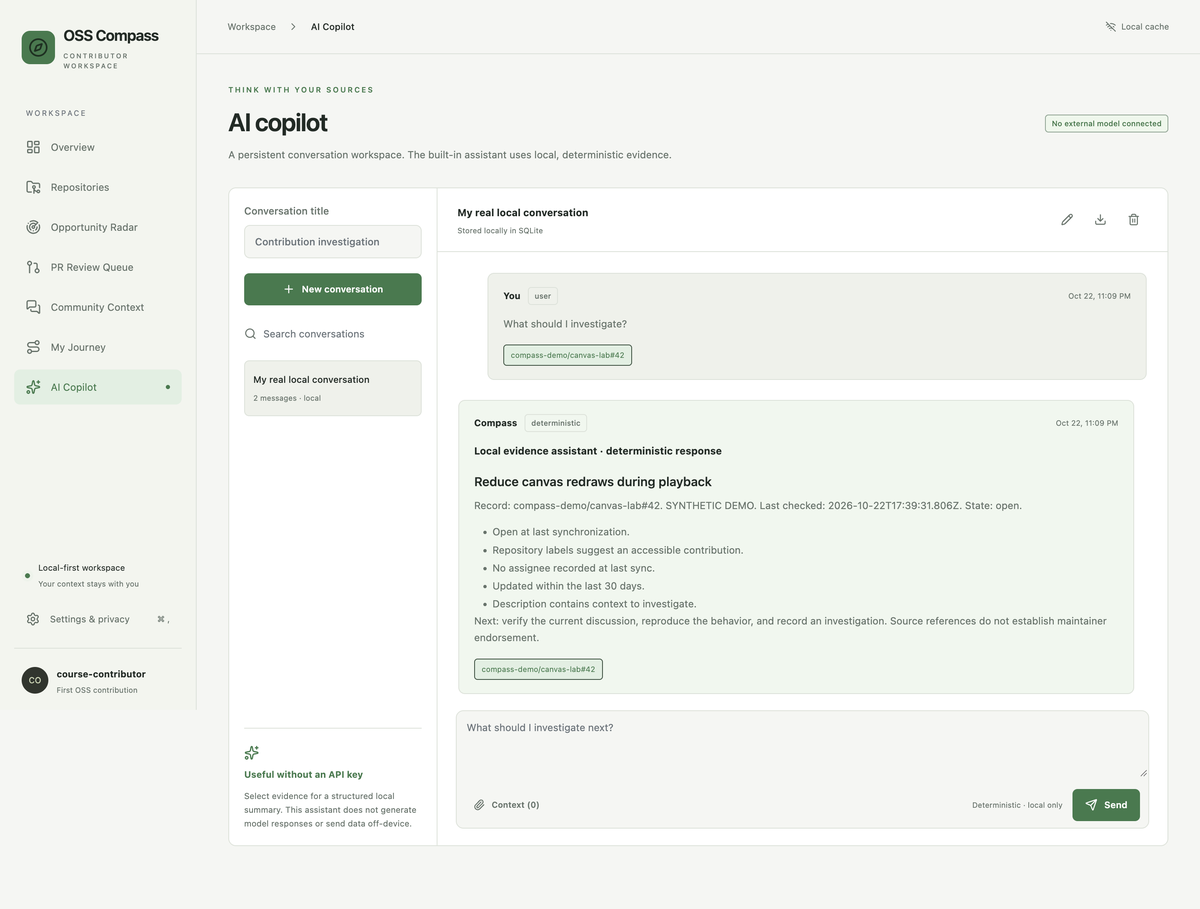
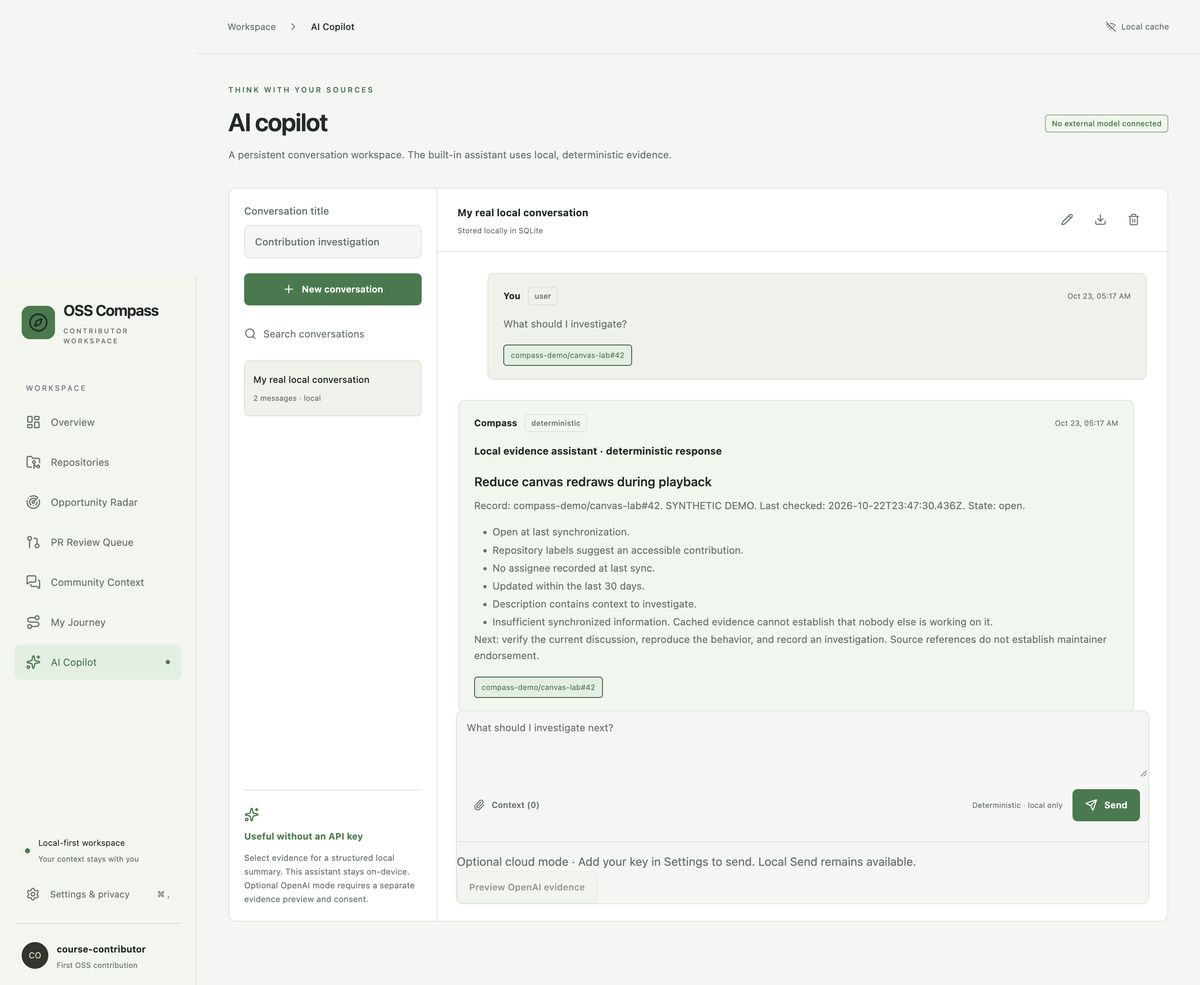
build: verify and package 0.2 audit release with course evidence

diff --git a/tests/e2e/workspace.spec.ts b/tests/e2e/workspace.spec.ts
@@ -22,6 +22,22 @@ test("complete offline contribution workflow survives a desktop restart", async 
     await page.getByRole("button", { name: "Explore demo workspace" }).click();
     await expect(page.getByText("DEMO DATA VISIBLE")).toBeVisible();
     await page
+      .getByRole("button", { name: "Repositories", exact: true })
+      .click();
+    await page
+      .getByRole("button", { name: "Organization briefing", exact: true })
+      .click();
+    await expect(
+      page.getByRole("heading", { name: "Organization briefing", exact: true }),
+    ).toBeVisible();
+    await expect(
+      page.getByText("Missing policy is not permission", { exact: false }),
+    ).toBeVisible();
+    await page.screenshot({
+      path: "docs/screenshots/organization-briefing.png",
+      fullPage: true,
+    });
+    await page
       .getByRole("button", { name: "Opportunity Radar", exact: true })
       .click();
     await expect(
@@ -40,6 +56,7 @@ test("complete offline contribution workflow survives a desktop restart", async 
       .click();
     const details = page.getByRole("dialog", { name: "Item details" });
     await expect(details).toBeVisible();
+    await details.screenshot({ path: "docs/screenshots/before-you-start.png" });
     await expect(
       page.getByText("BEFORE YOU START", { exact: true }),
     ).toBeVisible();
@@ -72,6 +89,9 @@ test("complete offline contribution workflow survives a desktop restart", async 
     await expect(
       page.getByText("Inspection history (1)", { exact: true }),
     ).toBeVisible();
+    await page
+      .getByRole("dialog")
+      .screenshot({ path: "docs/screenshots/review-memory.png" });
     await page.getByRole("button", { name: "Close details" }).click();
     await page
       .getByRole("button", { name: "Community Context", exact: true })

diff --git a/src/main/service.ts b/src/main/service.ts
@@ -302,7 +302,7 @@ export class Service {
           "**Local evidence assistant · deterministic response**\n\n";
         if (!refs.length)
           answer +=
-            "Select issue or community records to receive an evidence summary. No model is connected. For a contribution plan: reproduce the issue, read contributor guidance, coordinate with maintainers, and budget time for tests and feedback.";
+            "Select issue or community records to receive an evidence summary. Local mode does not call a model. For a contribution plan: reproduce the issue, read contributor guidance, coordinate with maintainers, and budget time for tests and feedback.";
         else {
           for (const i of items) {
             const r = ranked.find((r) => r.item.id === i.id);
@@ -496,7 +496,7 @@ export class Service {
         c.messages
           .map(
             (m) =>
-              `## ${m.role} · ${m.origin} · ${m.at}\n\n${m.text}\n\nSources: ${m.sources.join(", ")}`,
+              `## ${m.role} · ${m.origin} · ${m.at}\n\n${m.model ? `Model: ${m.model}; total tokens: ${m.totalTokens ?? "unknown"}. Citation IDs checked, claims unverified.\n\n` : ""}${m.text}\n\nSources: ${m.sources.join(", ")}${m.evidence ? "\n\n### Supplied evidence\n" + m.evidence.map((c) => `\n${c.id} · ${c.recordId} · ${c.provenance} · observed ${c.observedAt}\n${c.title} ${c.url}\n\n> ${c.text.replace(/\n/g, "\n> ")}\n`).join("\n") : ""}`,
           )
           .join("\n\n")
       );

diff --git a/tests/integration/ai.test.ts b/tests/integration/ai.test.ts
@@ -136,6 +136,8 @@ it("sends the approved snapshot without tools/history and persists model evidenc
     consent: true,
   });
   expect(fetcher.mock.calls[0][0]).toBe("https://api.openai.com/v1/responses");
+  expect(service.export("chat", chat.id)).toContain("Model: gpt-5.4-mini");
+  expect(service.export("chat", chat.id)).toContain(preview.chunks[0].text);
   expect(store.callsToday()).toBe(1);
   expect(store.get("conversations", chat.id)!.messages[1]).toMatchObject({
     origin: "model",

diff --git a/tests/e2e/cloud.spec.ts b/tests/e2e/cloud.spec.ts
@@ -49,6 +49,10 @@ test("cloud preview requires consent, shows exact passages and preserves local f
       })
       .click();
     await expect(page.locator(".evidence-preview")).toContainText("canvas");
+    await page.screenshot({
+      path: "docs/screenshots/cloud-consent.png",
+      fullPage: true,
+    });
     await page.getByLabel("I authorize sending this question").check();
     await expect(send).toBeEnabled();
     // No provider request is made in this desktop test.

diff --git a/ARCHITECTURE.md b/ARCHITECTURE.md
@@ -12,6 +12,8 @@ flowchart LR
   Service --> Queue[Serial GitHub request queue]
   Queue --> GitHub[api.github.com]
   Service --> Credentials[OS safeStorage / session only]
+  Service --> Preview[Selected FTS evidence + explicit consent]
+  Preview --> OpenAI[Optional api.openai.com Responses]
 ```
 
 ## Process boundaries
@@ -22,15 +24,15 @@ flowchart LR
 
 ## Persistence
 
-SQLite WAL and foreign keys are enabled. Migration 1 establishes settings, repositories, items, sources, tasks, conversations, changes, HTTP cache, prompt templates, and the FTS5 index. Migration 2 adds synchronization checkpoints. JSON aggregates preserve nested comments, reviews, source segments, references, annotations, and conversation messages; indexed relational keys support repository ownership and deletion. This intentionally avoids dozens of premature tables in the first desktop MVP. See [schema](docs/architecture/DATABASE.md).
+SQLite WAL and foreign keys are enabled. Migration 1 establishes settings, repositories, items, sources, tasks, conversations, changes, HTTP cache, prompt templates, and the FTS5 index. Migration 2 adds synchronization checkpoints. Migration 3 scopes disposable HTTP cache rows to a literal repository owner. Migration 4 adds transactional evidence chunks in a separate FTS5 index. JSON aggregates preserve nested comments, reviews, source segments, references, annotations, and conversation messages; indexed relational keys support repository ownership and deletion. This intentionally avoids dozens of premature tables in the first desktop MVP. See [schema](docs/architecture/DATABASE.md).
 
-Every aggregate upsert updates its FTS entry in one transaction. GitHub refreshes preserve private notes, saved state, and private review state. Source IDs, item keys (`owner/repo#number`), UUID conversations/messages, timestamps, and provenance travel with their records. A whole successful repository snapshot is committed transactionally. Failed syncs retain previous records and show the error.
+Every aggregate upsert updates its FTS entry in one transaction. GitHub refreshes preserve private notes, saved state, and private review state, note head anchors, and inspection history. Source IDs, item keys (`owner/repo#number`), UUID conversations/messages, timestamps, and provenance travel with their records. A whole successful repository snapshot is committed transactionally. Failed syncs retain previous records and show the error.
 
 ## GitHub and change detection
 
 One centralized queue bounds concurrency to one request. Lists use Link pagination with a configurable record ceiling, conditional ETag responses, 20-second request timeouts, three transient-error attempts, and cancellation. Redirects are manually checked and restricted to approved paths at api.github.com. GitHub issue-endpoint PRs are filtered before storage.
 
-Issues use a conservative completed-list checkpoint with a one-minute overlap; truncated issue lists do not advance it. PRs use a bounded recently-updated list. A maximum of 12 item discussions is enriched per sync, with bounded comments/reviews/checks. Optional enrichment is deferred at eight remaining API requests to preserve core access for other repositories; partial coverage and the reason are visible. Root README, CONTRIBUTING, and CODE_OF_CONDUCT files are fetched when available. Absent files are normal; permission and detail failures are visible. Closed items are updated when returned, not guessed closed because absent from a page.
+Issues use a conservative completed-list checkpoint with a one-minute overlap; truncated issue lists do not advance it. PRs use a bounded recently-updated list. A maximum of 12 item discussions is enriched per sync, with bounded comments/reviews/checks. Optional enrichment is deferred at eight remaining API requests to preserve core access for other repositories; partial coverage and the reason are visible. A bounded discovery pass checks root, .github and docs for up to 12 supported contributor, governance, ownership and AI policy documents. Each location/document carries observation and availability metadata. Absent files are normal; permission and detail failures are visible. Closed items are updated when returned, not guessed closed because absent from a page.
 
 First synchronization establishes a baseline. Later newly observed IDs, state/update/review changes, and imported explicit references produce change events. The briefing presents recent events and explainable investigation opportunities. It is not a push-notification scheduler or an exhaustive GitHub activity ledger.
 
@@ -40,7 +42,7 @@ After an explicit initial sync, repositories older than 30 minutes are eligible 
 
 Native file import checks extension, size, and content before parsing. Manual/pasted records are explicitly unverified; imported records retain source/date/timestamps. Explicit GitHub URLs and `owner/repo#N` resolve only to tracked repositories. Bare `#N` needs a selected repository. Keyword overlap creates a separate unverified candidate. Users classify exact passages; no automatic priority endorsement is inferred.
 
-Chat is an offline deterministic evidence assistant. It stores real user interactions and source references, with `user`, `deterministic`, `model` (reserved), and `demo` origin types. No network model adapter is shipped. Demo conversations are read-only and excluded when demo visibility is off.
+Chat defaults to an offline deterministic evidence assistant. It stores user interactions and source references with `user`, `deterministic`, `model`, and `demo` origins. The optional OpenAI adapter accepts only a main-process preview token bound to exact selected evidence and explicit cloud consent. It stores model/usage metadata and supplied chunks; no tools or GitHub writes exist. See [optional AI boundaries](docs/architecture/OPTIONAL_AI.md). Demo conversations are read-only and excluded when demo visibility is off.
 
 ## Build
 

diff --git a/docs/course/KNOWN_LIMITATIONS.md b/docs/course/KNOWN_LIMITATIONS.md
@@ -2,27 +2,30 @@
 
 ## Deliberate MVP boundaries
 
-- The copilot is local deterministic logic. External model integration, provider settings and context-upload consent are not shipped. A future adapter must require explicit opt-in, preview selected data, secure the model key, cite stored evidence, and remain optional.
+- The default copilot remains deterministic. Optional OpenAI supports previewed selected evidence and one request per send; no live account/provider response was tested. Account access, live grounding quality and real OS key continuity remain unverified. ID-valid citations do not establish truth. Prior conversation history is not sent, and retrieval is limited to eight passages.
 - No OAuth, private repository ingestion, Slack/Discord bots, scraping, native audio, automatic public posting, merges, program submissions, or official deadline claims.
 - GitHub snapshots are bounded. Up to 12 items receive discussion/review enrichment per synchronization; each child list has its own cap. Old PR changes outside the bounded recently-updated set may remain cached. Full graph consistency is not claimed.
-- Guidance lookup checks root-level standard Markdown filenames, not every nested or differently cased variant.
+- Guidance lookup checks supported filenames in root, .github and docs, up to 12 documents. It does not inspect every nested location, organization-wide default, or embedded policy; absent AI policy is not permission.
 - FTS indexes source/cached records, but renderer item filters use the in-memory snapshot. Snapshots and aggregate conversation messages should be paginated/normalized before very large workloads.
 - Opportunity scoring and contextual links are conservative text heuristics. They do not prove difficulty, priority, endorsement or availability. References are extracted at import time against currently tracked repositories; re-linking after adding repositories is future work.
 - Briefings display recent observed changes with timestamps. They are not exhaustive daily activity reports, operating-system notifications, or background work when the app is closed.
 - SQLite content is not encrypted. Deleting sources does not rewrite old conversation excerpts, exported files, or backups. The security document explains logical deletion semantics.
-- Fine-grained keyboard/focus accessibility audit, localization, automatic updates, code signing, notarization, crash recovery under forced power loss, and large-scale performance work remain.
+- A full independent accessibility audit, localization, automatic updates, code signing, notarization, crash recovery under forced power loss, and large-scale performance work remain.
 - The full Windows build/runtime path must be validated on Windows. Native SQLite makes cross-platform packaging more than changing an output extension. CI configuration is provided but a remote CI run is not claimed.
 
 - The native bundle currently uses Electron’s default application icon; in-app branding is implemented.
 - Live core synchronization passed for two public repositories; complete discussion/check coverage is not claimed because the low-quota run deliberately deferred optional enrichment.
-- Eight moderate development/packaging dependency paths remain in the full audit; production-only dependencies audited cleanly.
+- Baseline npm ci reported eight moderate development paths; the final full and production npm audits returned zero on 2026-10-23 without dependency changes. This is registry output, not proof that the earlier advisory paths were fixed. Recheck before distribution.
 
 ## Next steps
 
 1. Validate NSIS installation and secure token persistence on Windows using the existing CI and a human desktop smoke test.
-2. Expand sync coverage with resumable per-endpoint cursors, on-demand discussion refresh, explicit freshness per enrichment stream, and rate-reset scheduling.
+2. Expand sync coverage with resumable per-endpoint cursors, on-demand discussion refresh, on-demand check refresh and rate-reset scheduling.
 3. Normalize high-volume messages/comments, paginate IPC snapshots, and add data retention/export management.
-4. Add a well-tested opt-in model provider after the grounding, consent-preview and credential UX is reviewed.
+4. Validate optional OpenAI using an authorized key and non-sensitive evidence; evaluate grounding/abstention and review privacy UX.
 5. Add permitted community adapters only through official APIs and appropriate community consent; retain manual capture as a first-class workflow.
 
 The full original product vision is preserved in MASTER_BUILD_PROMPT.md; these limitations are not silently removed requirements.
+
+- Devin scans/remediations are blocked by unavailable integration, organization, repository mapping and budget. No external scan IDs or PRs exist.
+- Inspection history and conversation aggregates are not paginated; very large histories can grow snapshots. Exact commit diffs and edited-comment diffs are not derived.

diff --git a/docs/development-journal/2026-10-23.md b/docs/development-journal/2026-10-23.md
@@ -1,0 +1,26 @@
+# Development journal — 2026-10-23
+
+Actual continuation of the post-Codex audit begun on 2026-10-22. Authoring/testing assistance: Codex. No Claude or Devin execution, human acceptance test, backdated commit, PR or merge is claimed.
+
+## Completed milestones
+
+- M0 (`f07e955`): audited clean v0.1.0 source and course records; npm ci, typecheck/lint, 32 local tests and two real desktop workflows passed. Initial sandboxed desktop launch failed; permitted launch passed.
+- M1 (`9aacfbb`): atomic credential replacement, cache/private metadata and pagination boundaries, robust import shapes, transactional deletion, modal keyboard focus and exact source navigation. Six new regressions; 38 local tests and two E2E passed. A new initial-focus assertion first failed and passed after repair.
+- M2 (`5fb7b9d`): no Devin tool, plugin search result, CLI, configured credential names, remote mapping, org/profile or verified budget available. Official v3 docs reviewed; blocked report/runbook written. Zero scans/findings/remediations/PRs.
+- M3 (`2507a3a`): indexed explicit competing-work relationships and uncertainty, Before You Start, bounded root/.github/docs briefing, per-stream discussion/review freshness, consistent deterministic chat evidence. 45 local tests; two E2E passed. M3 spans the client-date boundary from Oct 22 to Oct 23; Git timestamps are preserved as recorded.
+- M4 (`842c901`): private inspection/head/review history, new feedback, stale note anchors, checks head metadata and restart coverage. 47 local tests; two E2E passed.
+- M5 (`fcb4347`): optional OpenAI provider, secure separate key, FTS evidence chunks/migration 4, expiring preview and explicit consent, model/usage metadata, bounded calls and citation checking. 53 local tests; three desktop workflows passed. HTTP contract fixtures only; no live provider call.
+
+## Measured and live evidence
+
+Ranking workload: Apple M3 macOS arm64 Node 22.16.0, 1,000 issues and 1,000 linked PRs, two warmups and ten samples. Median before 192.974 ms (190.044–200.965); after 3.967 ms (2.137–4.641). Synthetic microbenchmark only; no overall app speed claim.
+
+Read-only GitHub integration rerun passed in 25.30 s on Oct 23 client time. `electron/electron-quick-start`: 10 cached items, partial=true, remaining=5, observed 2026-10-22T23:44:20.953Z (Oct 23 05:14 IST). `octocat/Hello-World`: 13 items, partial=true, remaining=2, observed 2026-10-22T23:44:23.420Z. No token used. This proves bounded core ingestion, not complete live discussion/policy/check coverage; those edge paths also have controlled tests.
+
+Full and production-only npm audit JSON returned zero advisories on Oct 23. Baseline npm ci had reported eight moderate development paths. No dependency versions were changed; advisory service output changed, not a dependency remediation. JSON responses are preserved under docs/audits.
+
+## Release validation
+
+Final checks, packaged smoke and artifact checksum are appended below after execution. Screenshots are generated by real Electron tests with visibly synthetic fixtures. Optional provider failure/privacy tests use a fake test key and controlled responses; the desktop consent test makes no provider request. The user's personal accounts and private transcripts were not used.
+
+Final 0.2 validation: typecheck/lint passed; 53 local tests passed (2.05 s, live/benchmark opt-ins skipped); three E2E passed (17.5 s). Production and macOS ZIP builds passed. The actual packaged executable passed SQLite/onboarding/demo/navigation smoke with app.isPackaged=true. ZIP SHA-256: 983297e0fa76ef769d6324fdfa2997c8533759f49d547cc304fd180695cfa81b, 136,473,810 bytes. No code signing or notarization. New screenshots for briefing, Before You Start, review memory and consent were inspected visually. Final dependency changes are only project version 0.1.0→0.2.0; no library updates.

diff --git a/docs/audits/POST_CODEX_AUDIT.md b/docs/audits/POST_CODEX_AUDIT.md
@@ -46,3 +46,16 @@ M3 desktop verification: build and both Electron workflows pass (13.9 s), includ
 M4 completed: explicit private inspection checkpoints persist the cached head, observed review states, feedback identities, saved note, private state and observation coverage. Sync preserves history and note head anchors. Changed cached heads and newly observed feedback are distinguished from exact code/comment diffs; unknown heads and stale enrichment abstain from comparisons. Checks show the head they were fetched for. Tests cover old-schema migration, repeated upserts, changed/unknown heads, new feedback, stale notes even after a newer inspection, and database reopen. Typecheck/lint and 47 local tests pass; two desktop workflows pass (14.6 s) including inspection history after restart. No external review is submitted.
 
 M5 completed with live-provider validation outstanding: optional OpenAI Responses integration, separate OS/session key storage, model/usage controls, migration 4 FTS5 evidence retrieval, stable chunk IDs, expiring exact-payload preview and explicit cloud consent. Private item notes and earlier conversation history are excluded; selected community passages require consent. Structured replies must cite supplied IDs; this is not a factuality guarantee. The deterministic local assistant remains available. Typecheck/lint and 53 local tests pass. Three Electron workflows pass (19.1 s), including consent gating and local fallback without provider traffic. Provider success, refusal, authentication/rate failure, incomplete replies, invalid citations and abstention are tested with controlled responses. No live OpenAI request or account model-access validation is claimed. See OPTIONAL_AI.md for implementation limits and official documentation sources.
+
+M6 verification: final 0.2 typecheck/lint passed; 53 local tests passed with two opt-ins skipped; three desktop workflows passed in 17.5 s, including organization briefing, modal focus, inspection restart, cloud preview and native export. The model chat export now includes actual model/token metadata and supplied evidence snapshots. Read-only live GitHub check passed for two public repositories (10 and 13 items), both partial with low remaining quota. Full/production npm audit returned zero; baseline npm ci reported eight moderate development paths without any subsequent dependency change. Both outputs are preserved honestly. Production build and unsigned arm64 package succeeded; artifact checksum is in BUILD_ARTIFACTS.md. Screenshots inspected. Final packaged smoke and Git release completion are recorded below.
+
+## Remaining priorities
+
+1. Configure authorized Devin repository/org/profiles and a bounded budget; follow the recorded runbook. No scan IDs, confirmed Devin findings, remediation changes, rejected PRs or merged PRs exist.
+2. Validate the optional provider with an authorized account and non-sensitive evidence, evaluate grounding/abstention, and review real OS credential continuity. Current tests establish contract/privacy behavior, not live model quality.
+3. Validate Windows installer/runtime, signing and notarization on the intended target platforms.
+4. Add on-demand discussion refresh/resumable coverage, then measure large real workspaces before changing whole-snapshot polling or aggregate history storage.
+
+The original Electron/main/preload/React/Zustand/SQLite/npm architecture, historical migrations and Git history, manual community import fallback, deterministic chat, demo separation and prohibition on automatic GitHub writes were preserved. No broad rewrite, secret migration, external publishing or account messaging occurred.
+
+Packaged smoke passed against the actual 0.2.0 executable: app.isPackaged=true, SQLite/onboarding/demo/navigation succeed. No remote is configured; no push, PR or publication was performed.

diff --git a/README.md b/README.md
@@ -31,18 +31,20 @@ npm run package:win
 ## Implemented
 
 - React desktop UI with onboarding, dark/light themes, eight workspaces, detail panels, and keyboard navigation.
-- Public GitHub metadata, bounded paginated issue/PR synchronization, discussions, review entries, check runs where accessible, and root-level contributor guidance.
+- Public GitHub metadata, bounded paginated issue/PR synchronization, discussions, review entries, check runs where accessible, and evidence-linked guidance from root, .github and docs.
 - Single request queue, timeouts, cancellation, retries, ETags, conservative incremental checkpoints, rate-limit errors, and cached/offline access.
-- SQLite migrations, FTS5, preserved investigation notes, saved items, local PR review states, and change events that suppress first-sync notifications.
-- Explainable opportunity ranking using skills, labels, assignments, activity, description, explicit community references, and related PR signals.
+- SQLite migrations, FTS5, preserved investigation notes, saved items, local PR review states and persistent inspection history, and change events that suppress first-sync notifications.
+- Explainable opportunity ranking using skills, labels, assignments, activity, description, explicit community references, and explicit related/previous PR signals, with a Before You Start coverage assessment.
 - Manual notes, pasted messages, link research, TXT/MD/SRT/VTT and Slack channel JSON exports; explicit references, unverified candidates, passage classification, and search.
 - Capacity-limited weekly planning, manual deadlines, user-entered achievements, and factual Markdown reports.
-- Persistent conversations with rename/delete/search/export, selected-source deterministic responses, and separately labeled synthetic demo conversations.
-- Validated preload IPC, isolated sandboxed renderer, safe Markdown, restricted API destinations, and OS-encrypted or session-only GitHub credentials.
+- Persistent conversations with rename/delete/search/export, selected-source deterministic responses, optional consent-gated OpenAI responses with cited evidence, and separately labeled synthetic demo conversations.
+- Validated preload IPC, isolated sandboxed renderer, safe Markdown, restricted API destinations, and OS-encrypted or session-only GitHub/OpenAI credentials.
 
 ## Scope and honesty
 
-The local copilot is **deterministic, not a connected language model**. No external model integration is included in v0.1. No Slack/Discord bots, automatic reviews, merges, posting, telemetry, or hosted accounts. The complete original vision is preserved in [the user brief](docs/ai/MASTER_BUILD_PROMPT.md), with remaining work in [known limitations](docs/course/KNOWN_LIMITATIONS.md).
+The default assistant is deterministic and local. Version 0.2 adds an optional OpenAI provider with evidence preview, per-request consent and usage controls. No live OpenAI call was made during validation; contract/privacy behavior was tested with controlled responses. See [optional AI](docs/architecture/OPTIONAL_AI.md). No Slack/Discord bots, automatic reviews, merges, posting or telemetry are included. The original vision remains in [the user brief](docs/ai/MASTER_BUILD_PROMPT.md), with current boundaries in [known limitations](docs/course/KNOWN_LIMITATIONS.md).
+
+The [post-Codex audit](docs/audits/POST_CODEX_AUDIT.md) records verified repairs and benchmark evidence. Devin access was unavailable; [no Devin scans or remediations ran](docs/audits/DEVIN_SCAN_REPORT.md).
 
 Public GitHub data is always a **cached observation**, not a guarantee of current state. Synchronization budgets are explicit; large repositories show partial coverage. Manual notes are not verified transcripts. A reference does not prove maintainer endorsement.
 

diff --git a/TESTING.md b/TESTING.md
@@ -61,3 +61,27 @@ Electron-generated screenshots are in `docs/screenshots`. Overview and community
 The audit-suggested older electron-builder version introduced more severe advisories and was reverted to 26.15.3. The remaining transitive packaging advisory has not been hidden with an unverified override. Recheck before distribution. Production-only dependencies audited cleanly.
 
 The first packaging attempt auto-discovered a local signing identity. That process was stopped, `mac.identity: null` was added, and the final artifact was rebuilt with the tool explicitly reporting that signing was skipped. No signed-release or notarization claim is made. The packaged-app smoke test used an isolated temporary profile.
+
+## Version 0.2 audit verification — 2026-10-23
+
+This section supersedes current-state claims in the historical v0.1 report above; earlier results remain historical evidence.
+
+| Command/check | Actual result |
+|---|---|
+| `npm ci` at audit baseline | Passed; 542 packages; baseline reported 8 moderate development paths |
+| `npm run typecheck` / `npm run lint` | Passed on final 0.2 source |
+| `npm test` | 53 passed; 2 opt-in tests skipped (live API and performance); 2.05 s final run |
+| `npm run test:e2e` | 3 passed in 17.5 s; real Electron, no live model traffic |
+| Live GitHub check | Passed for two public repositories in 25.30 s; partial coverage and low remaining quota correctly reported |
+| Ranking workload | Median 192.974 ms before, 3.967 ms after on same M3; synthetic ranking only |
+| `npm run build` | Passed, including final package build |
+| `npm run package:mac` | Passed; unsigned arm64 ZIP, default Electron icon |
+| Full / production `npm audit --json` | Both returned zero advisories; JSON retained in docs/audits. No dependency upgrade was made, so earlier advisory paths are not claimed repaired |
+| OpenAI | Controlled contract/failure/privacy tests passed; no live provider/account validation |
+| Devin | Access unavailable; no scans or remediations |
+
+New behavior coverage: encryption/write failure preserves old credentials; malformed Slack rows and timestamp bounds; private metadata never cached; cache deletion after redirected pagination; cycle/page budget; literal reference matching and false positives; missing/removed/deferred policy docs; per-stream observation time; related PRs in local chat; migration from v2; inspection history, heads, feedback and stale notes; cloud-preview consent/payload scope, stable chunk IDs, source changes/deletion, key absence, daily limits, invalid citations, provider errors/refusal/truncation/abstention, local fallback, model provenance/evidence restart and export.
+
+The Electron suite verifies modal focus entry/Tab containment, native imports/exports, saved settings/notes/inspection history/conversations after restart, demo separation, briefing rendering, optional cloud preview/consent/invalidation, and runtime context isolation. New screenshots were inspected visually. This is not a complete WCAG audit. Windows, signing/notarization, real personal-token OS persistence, and live OpenAI quality/access remain unverified. The first baseline sandboxed launch failed with EPERM/SIGABRT; rerunning with desktop launch permission passed. An initial new focus assertion failed, was fixed, and passed before its milestone commit.
+
+See [audit](docs/audits/POST_CODEX_AUDIT.md), [journal](docs/development-journal/2026-10-23.md) and [artifact evidence](docs/course/BUILD_ARTIFACTS.md).

diff --git a/docs/course/DEMO_WALKTHROUGH.md b/docs/course/DEMO_WALKTHROUGH.md
@@ -6,8 +6,8 @@ Allow 10–15 minutes. Use a separate demo data directory if the normal profile 
 2. Complete onboarding with a username, React/TypeScript skills, five-hour capacity and contribution goal.
 3. Open Repositories. Add a public repository and synchronize. Point out cached timestamps, partial coverage and API limits. A network failure is an honest cached-data state, not a reason to claim success.
 4. Load the synthetic demo workspace for repeatable examples. Point out the amber demo marker. This fixture is fictional.
-5. Open Opportunity Radar, inspect #42, read its evidence, save it and write a private investigation note. Inspect #57 and explain the related-PR warning.
-6. Open PR Review Queue, inspect #71 and set Needs follow-up. Explain that nothing is posted to GitHub. Real records can open their public diff.
+5. Open Opportunity Radar, inspect #42, read Before You Start and coverage, save it and write a private investigation note. Inspect #57 and explain the related-PR warning.
+6. Open PR Review Queue, inspect #71 and set Needs follow-up. Save a note, click Record inspection and expand Inspection history. Explain unknown/stale observation times and that nothing is posted to GitHub. Real records can open their public diff.
 7. Open Community Context → Capture context. Acknowledge permission and choose `tests/fixtures/meeting.vtt` through the native file dialog. Inspect the timestamped transcript and explicit #42 link.
 8. Highlight a passage, classify it as an action and add a note. Search for redraw. Create a separate manual note and point out its unverified provenance. Explain that no Slack workspace integration is needed or attempted.
 9. Return to Overview: the imported reference appears in the briefing, and the saved investigation persists.
@@ -20,3 +20,11 @@ Allow 10–15 minutes. Use a separate demo data directory if the normal profile 
 16. Launch the available packaged application. Explain that Windows NSIS configuration exists but Windows runtime certification/signing are separate from the macOS build.
 
 No screenshots or synthetic conversation content should be presented as historical maintainer interactions or live model output.
+
+## Version 0.2 audit additions
+
+- In Repositories, expand Organization briefing: distinguish documented guidance, cached activity observations and research suggestions. Show root/.github/docs coverage and explain that missing AI policy is not permission.
+- In PR Review Queue, show the last inspected head and review state; restart and confirm inspection history. Changed-head and new-feedback cases are reproducible in `tests/integration/service.test.ts`; do not invent live changes for the demo.
+- In AI Copilot, choose evidence and preview an OpenAI request. Show exact passages and the unchecked consent gate. Without an authorized key, demonstrate local Send instead; do not pretend a real model replied. If the student supplies their own authorized key, use non-sensitive evidence and a low request cap, then verify citations manually.
+- Show `docs/audits/DEVIN_SCAN_REPORT.md`: access discovery was blocked and no external scan or remediation ran. Explain how the runbook would produce genuine scan/session evidence later.
+- Compare baseline 32 versus 53 local tests and two versus three desktop workflows; show the scoped ranking benchmark without presenting it as a full-app speedup.

diff --git a/docs/architecture/DATABASE.md b/docs/architecture/DATABASE.md
@@ -2,7 +2,7 @@
 
 | Table | Key and contents | Lifecycle |
 | --- | --- | --- |
-| migrations | Integer version, applied timestamp | Two real forward migrations; idempotent on reopen |
+| migrations | Integer version, applied timestamp | Four real forward migrations; idempotent on reopen |
 | settings | Key, JSON value | Contributor profile, theme, capacity, goal, demo visibility, sync limit |
 | repositories | Canonical lowercase owner/repo, JSON | Metadata, provenance, last success, partial/error/rate state, guidance |
 | items | owner/repo#number, repository FK, JSON | Issue/PR body, labels, authors, assignments, timestamps, comments, reviews, checks, saved flag, private status and note |
@@ -15,8 +15,12 @@
 | search | FTS5 id/kind/text | Transactional searchable aggregate text, parameterized literal token queries |
 | prompt_templates | Version, body | Deterministic-v1 grounding rule |
 
-Message entities include UUID, role, text, timestamp, source IDs and actual origin (`user`, `deterministic`, `demo`; `model` is reserved). Comments/reviews, segments, references, annotations, saved state and private investigation notes are embedded in owner aggregates rather than independent SQL tables. TypeScript models are the canonical shape. At larger scale, split high-volume messages/comments into normalized tables and introduce paged IPC queries.
+Message entities include UUID, role, text, timestamp, source IDs and actual origin (`user`, `deterministic`, `demo`; `model` includes optional model/usage metadata and supplied evidence chunks). Comments/reviews, segments, references, annotations, saved state and private investigation notes are embedded in owner aggregates rather than independent SQL tables. TypeScript models are the canonical shape. At larger scale, split high-volume messages/comments into normalized tables and introduce paged IPC queries.
 
 Repository deletion cascades items and clears cached API paths and search entries. Source deletion clears source/search data and its associated events. Conversation deletion removes its aggregate and search entry. Exports and excerpts in other aggregates are independent records. See SECURITY for deletion semantics.
 
 A successful sync transaction uses old observations to create change events before advancing metadata. A failed/cancelled sync keeps cached items and updates only the error state. SQLite foreign keys and WAL are enabled. Migrations run once on startup and are tested against reopening.
+
+## Audit additions
+
+Migration 3 removes disposable legacy HTTP cache entries, adds a literal repository owner and index, and preserves all domain rows. Redirected page caches inherit the originating repository. Migration 4 adds the evidence FTS table and backfills supported records transactionally. Both remain idempotent. PR JSON aggregates now preserve an append-only local inspection history, note head anchor and separate discussion/review/check observation metadata; legacy fields are optional and display unknown coverage. Daily OpenAI attempts and configuration use settings; keys never do.
